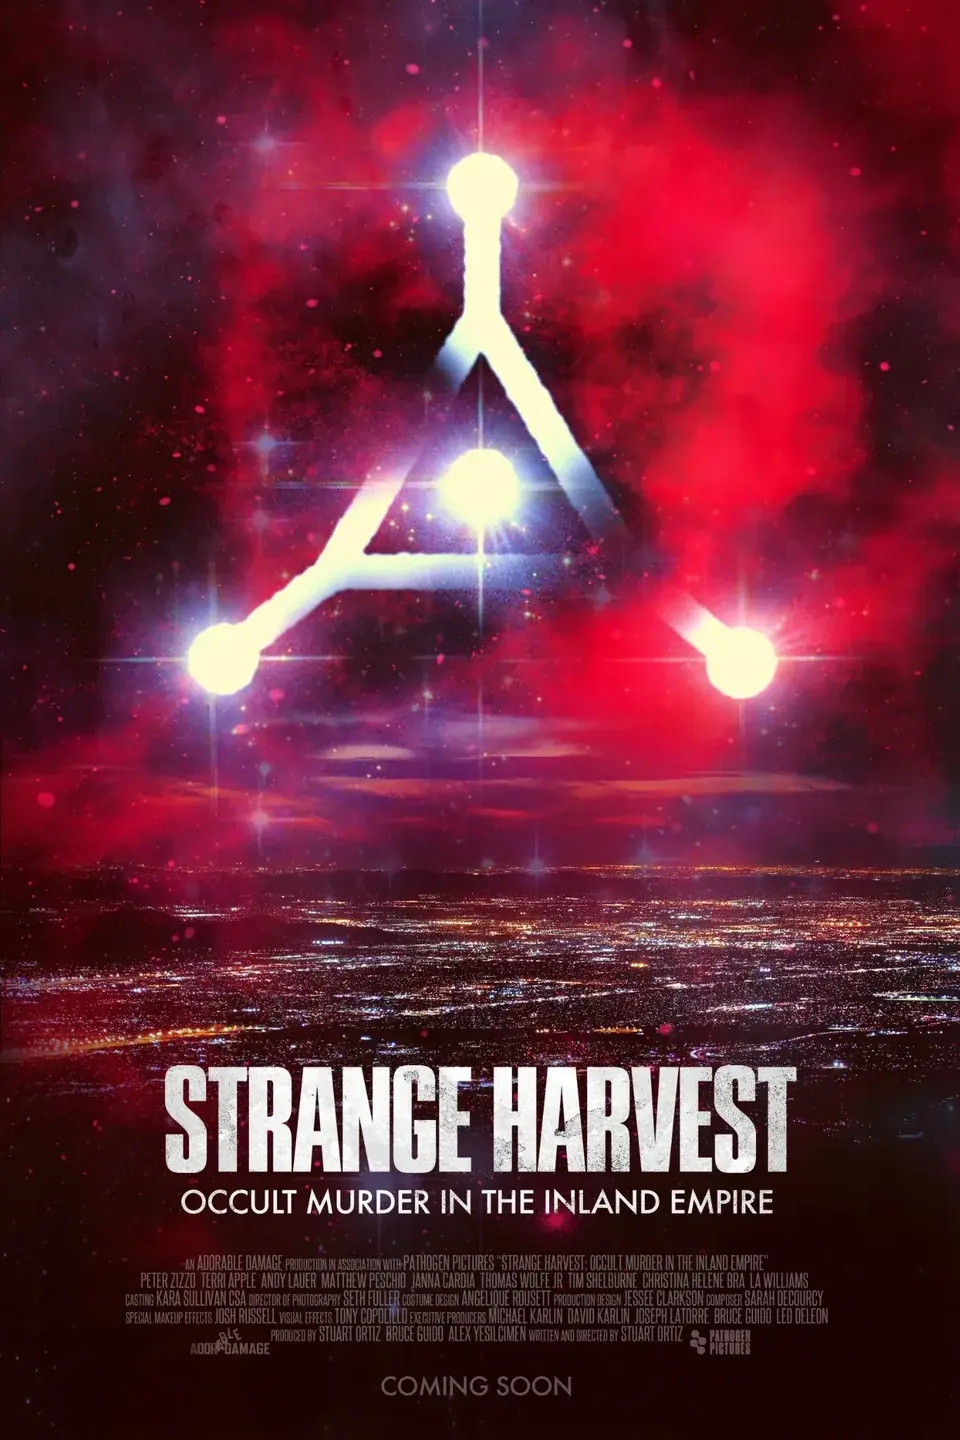
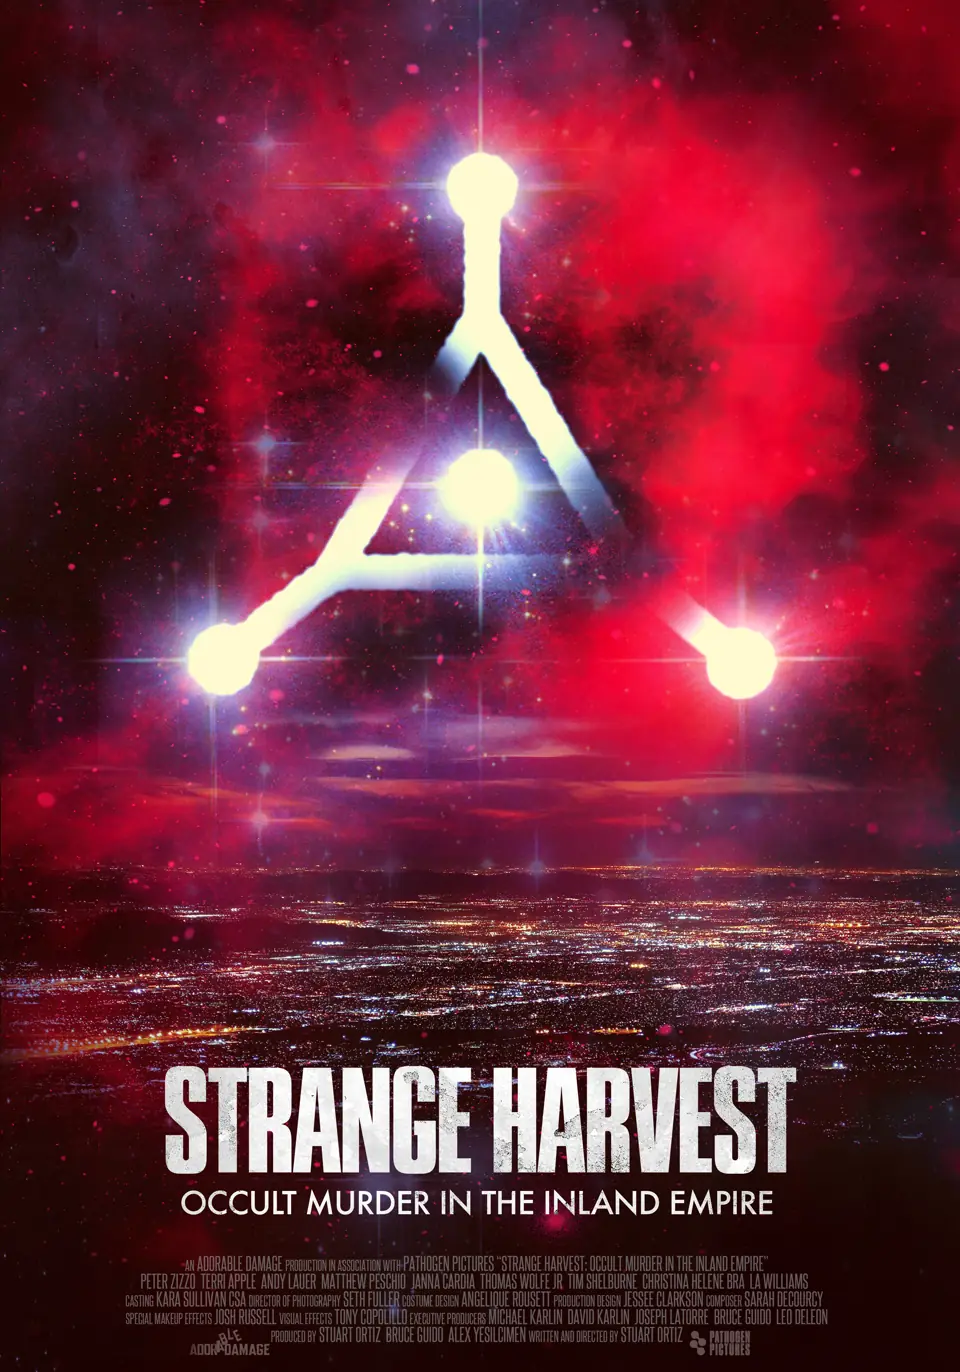
fix: crop COMING SOON off the festival poster, pin line endings
Festival poster. It is the only version that exists and permanently reads
"COMING SOON", which contradicted the live Paramount+ link two sections below
and would have cost the blue arm conversions for a reason unrelated to the art.
Cropped the bottom 4.8% (1365x2048 -> 1365x1950); the line sat alone below the
billing block, so the title, credits and artwork are untouched. Derivatives are
re-encoded from the 3300x4950 JPG master rather than the already-lossy webp, so
there is no generation loss: 640w is at parity (57.7 KB vs 57.1), the base is
13% smaller, and the download JPG halves from 6.5 MB to 3.2 MB. The 960w/1280w
grow 11%/21% — ffmpeg's libwebp is less efficient than whatever produced the
originals, and I would rather carry that than soften the hero at q56.
Uncropped originals remain in git history.

Poster description was wrong. Three places called it "featuring the masked
killer". There is no figure in that artwork — it is a glowing three-pointed
occult symbol over the Inland Empire at night. Fixed the hero alt text, the BTS
carousel alt and caption (EN + ES), and the BTS JSON-LD caption, plus the
JSON-LD height the crop invalidated.

Carried over from PR #36 (claude/polish-bugs-optimization-117led), which a
parallel session opened: .crewMember:hover is now scoped to a.crewMember:hover,
so crew without an IMDb page stop showing a link hover they cannot act on. That
branch's other changes — the @Strange_Harvest handle and the © 2024 alignment —
[…]

diff --git a/public/bts.html b/public/bts.html
@@ -106,9 +106,9 @@
         "@id": "https://strangeharvestmovie.com/bts.html#img-poster-alt",
         "contentUrl": "https://strangeharvestmovie.com/images/strange-harvest-alternate-movie-poster.webp",
         "name": "Strange Harvest alternate movie poster",
-        "caption": "Alternate poster featuring the masked killer from Strange Harvest.",
+        "caption": "Festival poster for Strange Harvest: a glowing three-pointed occult symbol above the lights of the Inland Empire at night.",
         "width": 1365,
-        "height": 2048,
+        "height": 1950,
         "creditText": "Adorable Damage / Pathogen Pictures",
         "copyrightNotice": "© 2024 Strange Harvest. All rights reserved.",
         "license": "https://strangeharvestmovie.com/press.html"
@@ -1201,7 +1201,7 @@
 
     const postersItems = [
       { src: "/images/strange-harvest-official-movie-poster.webp", downloadSrc: "/images/strange-harvest-official-movie-poster-1280w.jpg", alt: "Official poster for the horror mockumentary Strange Harvest Occult Murder in the Inland Empire", caption: isEs ? "Poster oficial principal." : "Main official poster.", downloadLabel: isEs ? "Descargar poster principal" : "Download Main Poster" },
-      { src: "/images/strange-harvest-alternate-movie-poster.webp", downloadSrc: "/images/strange-harvest-alternate-movie-poster.jpg", alt: "Alternate poster featuring the masked killer from the horror mockumentary Strange Harvest", caption: isEs ? "Poster alternativo de festival con el asesino enmascarado." : "Alternate Festival Run Poster featuring the masked killer.", downloadLabel: isEs ? "Descargar poster de festival" : "Download Festival Poster" },
+      { src: "/images/strange-harvest-alternate-movie-poster.webp", downloadSrc: "/images/strange-harvest-alternate-movie-poster.jpg", alt: "Festival poster for the horror mockumentary Strange Harvest: a glowing three-pointed occult symbol above the lights of the Inland Empire at night", caption: isEs ? "Póster de festival: el símbolo oculto sobre las luces del Inland Empire." : "Festival Run Poster: the occult symbol above the lights of the Inland Empire.", downloadLabel: isEs ? "Descargar poster de festival" : "Download Festival Poster" },
       { src: "/images/strange-harvest-los-asesinatos-de-mr-shiny-poster.webp", downloadSrc: "/images/strange-harvest-los-asesinatos-de-mr-shiny-poster.jpg", alt: "Official Spanish poster for Strange Harvest titled Los asesinatos de Mr. Shiny", caption: isEs ? "Poster oficial en espanol: Los asesinatos de Mr. Shiny." : "Official Spanish title poster: Los asesinatos de Mr. Shiny.", downloadLabel: isEs ? "Descargar poster en espanol" : "Download Spanish Poster" }
     ];
 

diff --git a/src/components/Hero.tsx b/src/components/Hero.tsx
@@ -248,7 +248,10 @@ export default function Hero({ initialVariant = "red" }: { initialVariant?: Them
         srcSet:
           "/images/strange-harvest-alternate-movie-poster-640w.webp 640w, /images/strange-harvest-alternate-movie-poster-960w.webp 960w, /images/strange-harvest-alternate-movie-poster-1280w.webp 1280w",
         downloadSrc: "/images/strange-harvest-alternate-movie-poster.jpg",
-        alt: "Alternate Festival Run Poster featuring the masked killer from the horror mockumentary Strange Harvest",
+        // Describes what is actually in the frame. The previous alt said "featuring
+        // the masked killer"; the artwork is a glowing three-pointed occult symbol
+        // over a night-time city, no figure in it at all.
+        alt: "Festival poster for the horror mockumentary Strange Harvest: a glowing three-pointed occult symbol above the lights of the Inland Empire at night",
       }
     : {
         src: "/images/strange-harvest-official-movie-poster.webp",

diff --git a/public/styles/main.css b/public/styles/main.css
@@ -2049,7 +2049,10 @@ section {
   transition: color 0.2s ease;
 }
 
-.crewMember:hover {
+/* Scoped to the anchor: crew without an IMDb page render as <span class="crewMember">
+   and were picking up a link hover they can't act on. (Fix from PR #36 /
+   claude/polish-bugs-optimization-117led, carried over here.) */
+a.crewMember:hover {
   color: hsl(var(--primary-text));
 }
 

diff --git a/src/main.css b/src/main.css
@@ -2045,7 +2045,10 @@ section {
   transition: color 0.2s ease;
 }
 
-.crewMember:hover {
+/* Scoped to the anchor: crew without an IMDb page render as <span class="crewMember">
+   and were picking up a link hover they can't act on. (Fix from PR #36 /
+   claude/polish-bugs-optimization-117led, carried over here.) */
+a.crewMember:hover {
   color: hsl(var(--primary-text));
 }
 
